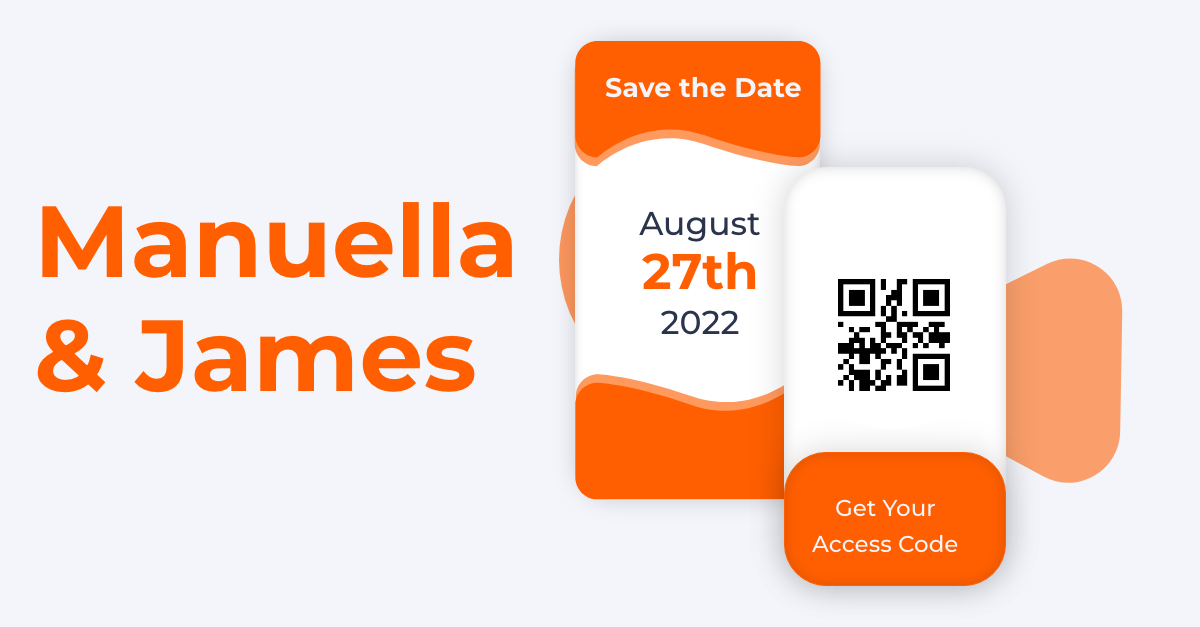
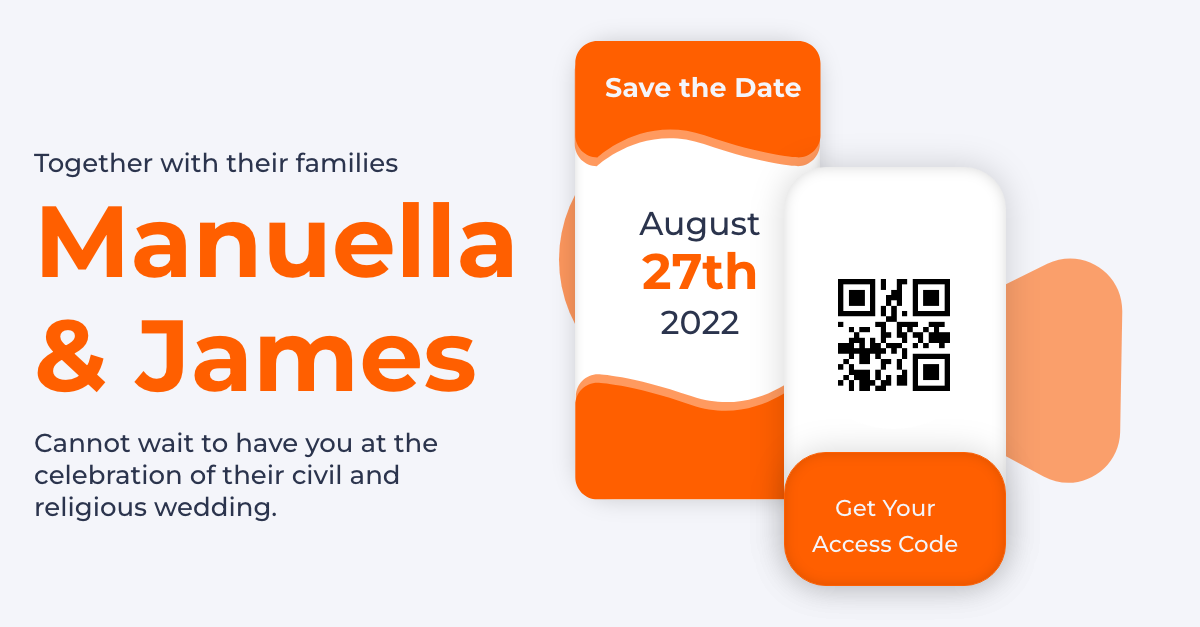
link sharing details

Changed region(s): [[0.0308, 0.697, 0.37, 0.8485], [0.0308, 0.2424, 0.3392, 0.2727]]

diff --git a/index.html b/index.html
@@ -12,7 +12,11 @@
  <meta property="og:image" content="./Res/Linkshare.png" />
  <meta
  property="og:description"
- content="Together with their families, Manuella and James cannot wait to have you at their wedding ceremony. Click to see details."
+ content="Together with their families, Manuella and James cannot wait to welcome you at their wedding ceremony. Click to see details."
+ />
+  <meta
+ name="description"
+  content="Together with their families, Manuella and James cannot wait to welcome you at their wedding ceremony. Click to see details."
  />
  <meta property="og:url" content="https://bit.ly/3Q8tlG4/" />
  
